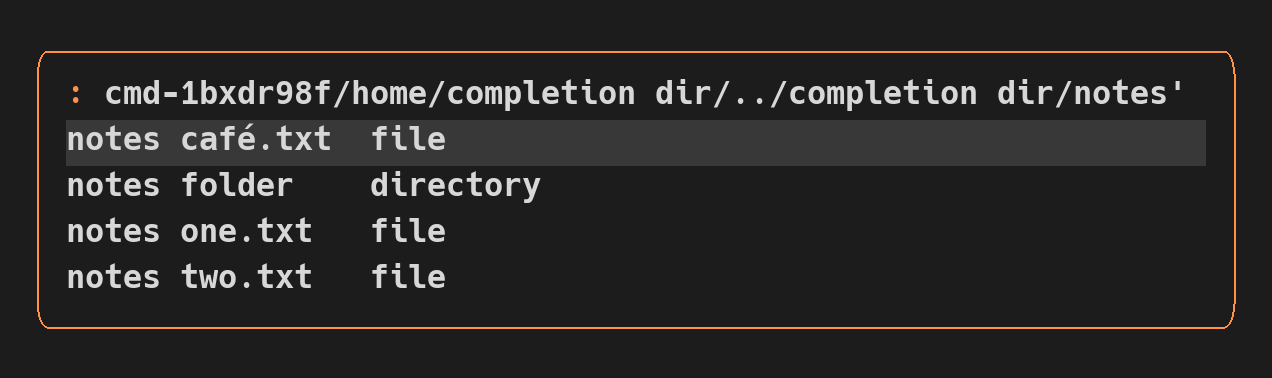
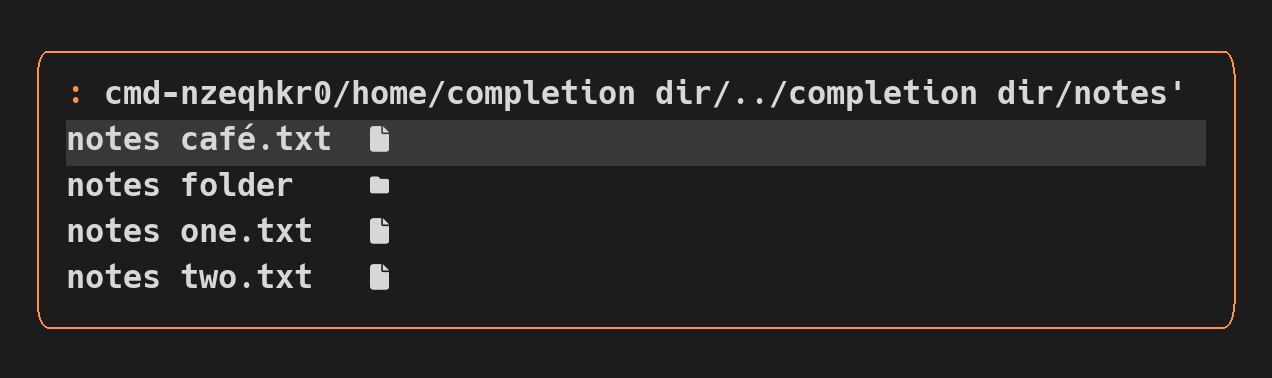
feat(theme): share file and folder glyphs

diff --git a/scripts/theme.py b/scripts/theme.py
@@ -353,6 +353,8 @@ def compile_theme(source, theme_name, symbols="unicode"):
     for mode, role in {"normal": "accent", "insert": "status.success", "visual": "syntax.number", "replace": "status.error", "command": "status.warning", "inactive": "text.muted"}.items():
         lualine[mode] = {"a": {"fg": c["text.inverse"], "bg": c[role], "gui": "bold"}, "b": {"fg": c["text"], "bg": c["surface.selected"]}, "c": {"fg": c["text"], "bg": c["surface"]}}
     output("lualine.lua", "-- Generated by scripts/theme.py.\nreturn " + lua(lualine))
+    file_symbols = {name: tokens.get(f"symbol.file.{name}", "zellij", "string") for name in ("regular", "directory")}
+    output("zellij-symbols.rs", "// Generated by scripts/theme.py.\n" + "\n".join(f"pub const {name.upper()}: &str = {json.dumps(symbol, ensure_ascii=False)};" for name, symbol in file_symbols.items()))
     output("tokens.json", json.dumps({"theme": theme_name, "symbols": symbols, "presentation": tokens.catalog(), "git_states": git_states}, indent=2, ensure_ascii=False))
     validate_catalog(source)
     return outputs

diff --git a/zellij/command-prompt/src/files.rs b/zellij/command-prompt/src/files.rs
@@ -2,6 +2,10 @@ use crate::completion::Suggestion;
 use std::{path::PathBuf, time::Instant};
 use zellij_tile::prelude::*;
 
+mod glyphs {
+    include!("../../../design-system/generated/zellij-symbols.rs");
+}
+
 #[derive(Clone, Debug, PartialEq, Eq)]
 pub struct Query {
     pub directory: PathBuf,
@@ -37,7 +41,15 @@ impl Query {
                 }
                 let value = format!("{}{name}{}", self.parent, if directory { "/" } else { "" });
                 value.starts_with(&self.prefix).then(|| {
-                    Suggestion::new(value, name, if directory { "directory" } else { "file" })
+                    Suggestion::new(
+                        value,
+                        name,
+                        if directory {
+                            glyphs::DIRECTORY
+                        } else {
+                            glyphs::REGULAR
+                        },
+                    )
                 })
             })
             .take(512)

diff --git a/zellij/command-prompt/README.md b/zellij/command-prompt/README.md
@@ -16,7 +16,7 @@
 
 Arrow keys select suggestions. Ctrl-u clears before the cursor, Ctrl-k clears after it, and Ctrl-w deletes the previous word. Up from an empty command recalls history; Ctrl-p/Ctrl-n recall older/newer commands and restore the unsubmitted draft. Ctrl-r or `history` opens searchable history. It retains the last 32 distinct submitted commands in memory for each attached client, until the plugin/session restarts. Recent actions rank ahead of other equally matching commands.
 
-`help` opens the command list. An action's `--help` displays its native documentation; Enter or Esc returns to the editable command. Parse errors retain the command and show a compact inline error. Ctrl-d opens the full error in a scrollable view; Esc returns to editing. The completion engine uses metadata from the pinned Zellij CLI parser; unsupported variants are excluded from flag suggestions. Program arguments after `--` are left to that program. For `edit` filenames and `--cwd`/`--dir`, the first Tab requests directory choices; Tab then inserts the selected path. Lookups run asynchronously and never start while typing. A lookup shows up to 512 matching names; narrow the prefix for larger directories. If a lookup times out, editing remains available; reopen the palette to retry.
+`help` opens the command list. An action's `--help` displays its native documentation; Enter or Esc returns to the editable command. Parse errors retain the command and show a compact inline error. Ctrl-d opens the full error in a scrollable view; Esc returns to editing. The completion engine uses metadata from the pinned Zellij CLI parser; unsupported variants are excluded from flag suggestions. Program arguments after `--` are left to that program. For `edit` filenames and `--cwd`/`--dir`, the first Tab requests directory choices; Tab then inserts the selected path. File and directory types use shared design-system glyphs; the generated ASCII presentation uses `f` and `d`. Regenerate the theme and rebuild the plugin after changing symbol presentation. Lookups run asynchronously and never start while typing. A lookup shows up to 512 matching names; narrow the prefix for larger directories. If a lookup times out, editing remains available; reopen the palette to retry.
 
 ## Search and jump
 
